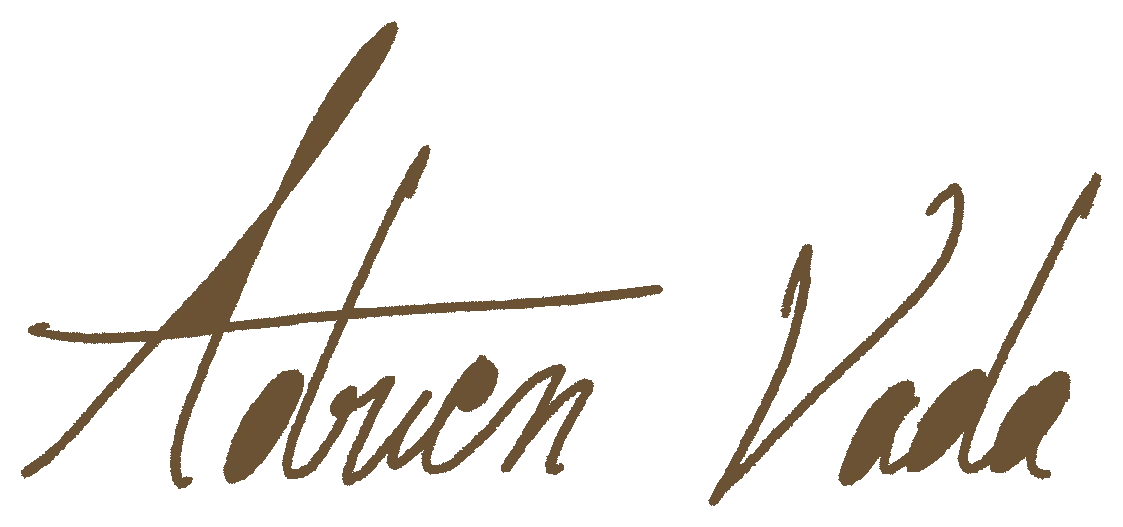
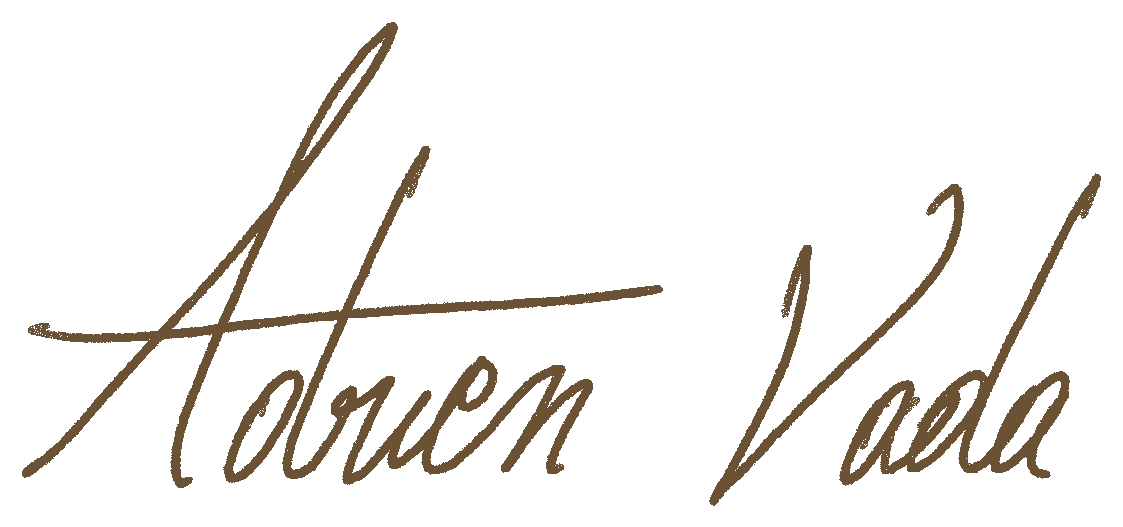
La signature cesse d'être pleine là où la plume ne l'avait pas remplie
Adrien l'a vu tout de suite : le contre-poinçon du A, la boucle du d, les
deux a de Vada étaient noirs. Il n'écrit pas comme ça — aucune plume ne
remplit ce qu'elle entoure.

reMARKABLE FERME SES TRAITS EN PAIR-IMPAIR (l'opérateur f*), et ce n'est
pas un détail de format. Un trait qui BOUCLE enferme son creux entre deux
contours emboîtés : en pair-impair, l'intérieur s'annule et reste blanc.
Rempli sous-tracé par sous-tracé — ce que faisait Pillow, qui ne connaît
pas cette règle — il devient noir, et la signature n'est plus la sienne.

On balaie donc l'image ligne à ligne, on compte les traversées de contour,
et l'on ne peint qu'entre la première et la deuxième, la troisième et la
quatrième. Les arêtes sont rangées par tranche horizontale, sans quoi
chaque ligne rejouerait les cinq mille arêtes de la signature entière.

L'image de contrôle suit la même règle : sans cela elle aurait montré une
signature juste alors que la vraie était fausse.

diff --git a/build/signature-vers-svg.py b/build/signature-vers-svg.py
@@ -101,6 +101,56 @@ def trajectoire(formes):
     return alleger(chemin, GRAIN * 1.2)
 
 
+def remplir_pair_impair(taille, formes, couleur):
+    """LE REMPLISSAGE PAIR-IMPAIR, à la main.
+
+    reMarkable ferme chaque trait par `f*` — la règle pair-impair — et
+    ce n'est pas un détail : un trait qui BOUCLE (le A, le d, les a de
+    Vada) enferme son contre-poinçon entre deux contours emboîtés. En
+    pair-impair, l'intérieur s'annule et reste blanc, comme sous une
+    vraie plume. Rempli sous-tracé par sous-tracé, il devient noir — et
+    la signature n'est plus la sienne.
+
+    Pillow ne sait pas faire ça : son polygon() remplit chaque contour
+    séparément. On balaie donc l'image ligne par ligne, on compte les
+    traversées de contour, et l'on ne peint qu'entre la première et la
+    deuxième, la troisième et la quatrième — ce qui laisse le dedans des
+    boucles intact.
+    """
+    L, H = taille
+    img = Image.new("RGBA", (L, H), (0, 0, 0, 0))
+    px = img.load()
+    for forme in formes:
+        aretes = []
+        for s in forme:
+            for i in range(len(s)):
+                x0, y0 = s[i]
+                x1, y1 = s[(i + 1) % len(s)]
+                if y0 != y1:
+                    aretes.append((min(y0, y1), max(y0, y1), x0, y0, x1, y1))
+        if not aretes:
+            continue
+        # Sans ce classement par tranche, chaque ligne rejouerait les
+        # cinq mille arêtes de la signature entière.
+        hmin = max(0, int(min(a[0] for a in aretes)))
+        hmax = min(H - 1, int(max(a[1] for a in aretes)) + 1)
+        seaux = {}
+        for a in aretes:
+            for y in range(max(0, int(a[0])), min(H, int(a[1]) + 1)):
+                seaux.setdefault(y, []).append(a)
+        for y in range(hmin, hmax + 1):
+            yc = y + 0.5
+            croix = []
+            for y0, y1, ax, ay, bx, by in seaux.get(y, ()):
+                if y0 <= yc < y1:
+                    croix.append(ax + (bx - ax) * (yc - ay) / (by - ay))
+            croix.sort()
+            for i in range(0, len(croix) - 1, 2):
+                for x in range(max(0, int(croix[i] + .5)), min(L, int(croix[i + 1] + .5))):
+                    px[x, y] = couleur
+    return img
+
+
 def vers_svg(points, ferme):
     d = f"M{points[0][0]:.{DECIMALES}f} {points[0][1]:.{DECIMALES}f}"
     for x, y in points[1:]:
@@ -115,11 +165,8 @@ def controler(formes, chemin, boite, part=0.72):
     L, H = 1100, max(200, int(1100 * ey / ex))
     e = (L - 40) / ex
     T = lambda x, y: (20 + (x - mx) * e, H - 20 - (y - my) * e)
-    art = Image.new("L", (L, H), 0)
-    da = ImageDraw.Draw(art)
-    for f in formes:
-        for s in f:
-            da.polygon([T(x, y) for x, y in s], fill=255)
+    art = remplir_pair_impair((L, H), [[[T(x, y) for x, y in s] for s in f] for f in formes],
+                              (255, 255, 255, 255)).convert("L")
     msk = Image.new("L", (L, H), 0)
     ImageDraw.Draw(msk).line([T(x, y) for x, y in chemin[:int(len(chemin) * part)]],
                              fill=255, width=int(EPAISSEUR_PLUME * e), joint="curve")
@@ -157,11 +204,8 @@ if __name__ == "__main__":
     #  doit rester du SVG : c'est elle que le CSS anime.
     ECHELLE = 3
     LI, HI = int((ex + marge * 2) * ECHELLE), int((ey + marge * 2) * ECHELLE)
-    img = Image.new("RGBA", (LI, HI), (0, 0, 0, 0))
-    d = ImageDraw.Draw(img)
-    for f in formes:
-        for sp in f:
-            d.polygon([(x * ECHELLE, y * ECHELLE) for x, y in place(sp)], fill=(107, 83, 52, 255))
+    a_lechelle = [[[(x * ECHELLE, y * ECHELLE) for x, y in place(sp)] for sp in f] for f in formes]
+    img = remplir_pair_impair((LI, HI), a_lechelle, (107, 83, 52, 255))
     dossier = RACINE / "ressources" / "images" / "papier"
     dossier.mkdir(parents=True, exist_ok=True)
     img.save(dossier / "signature.webp", "WEBP", quality=94, method=6, lossless=False)
